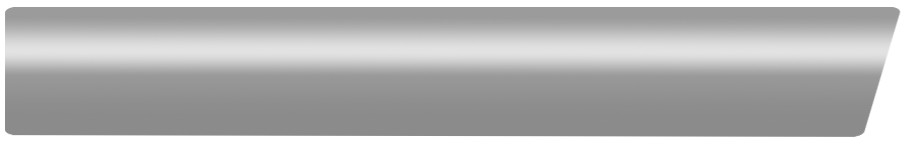
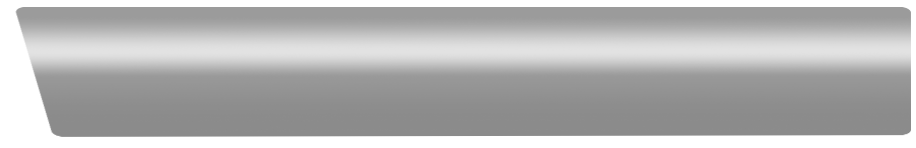
hp bars push 3

Changed region(s): [[0.5808, 0.027, 1.0, 0.9459], [0.0, 0.0541, 0.3974, 0.9459]]

diff --git a/Assets/Scripts/HPBar2.cs b/Assets/Scripts/HPBar2.cs
@@ -1,0 +1,55 @@
+    using System.Collections;
+using System.Collections.Generic;
+using UnityEngine;
+using UnityEngine.UI;
+
+public class HPBar2 : MonoBehaviour
+{
+    private float healthP2;
+    private float lerpTimer;
+    public float maxhealthP2 = 100;
+    public float loseHPp2 = -2f;
+    public Image frontHealthBar2;
+    public Image backHealthBar2;
+
+    // Start is called before the first frame update
+    void Start()
+    {
+        healthP2 = maxhealthP2;
+    }
+
+    // Update is called once per frame
+    void Update()
+    {
+        healthP2 = Mathf.Clamp(healthP2, 0, maxhealthP2);
+        UpdateHealthUIP2();
+        if(Input.GetKeyDown(KeyCode.N) || Input.GetKeyDown(KeyCode.B))
+        {
+            TakeDamageP2(Random.Range(-5, -10));
+        }
+
+    }
+    public void UpdateHealthUIP2()
+    {
+        Debug.Log(healthP2);
+        float fillF2 = (frontHealthBar2.fillAmount);
+        float fillB2 = (backHealthBar2.fillAmount);
+        float hFraction2 = (healthP2 / maxhealthP2);
+        if(fillB2 > hFraction2)
+        {
+            frontHealthBar2.fillAmount = hFraction2;
+            backHealthBar2.color = Color.red;
+            lerpTimer += Time.deltaTime;
+            float percentComplete2 = lerpTimer / loseHPp2;
+            percentComplete2 = percentComplete2 * percentComplete2;
+            backHealthBar2.fillAmount = Mathf.Lerp(fillB2, hFraction2, percentComplete2);
+        }
+    }
+    public void TakeDamageP2(float damage2)
+    {
+        healthP2 -= damage2;
+        lerpTimer = 0f;
+
+    }
+}
+
